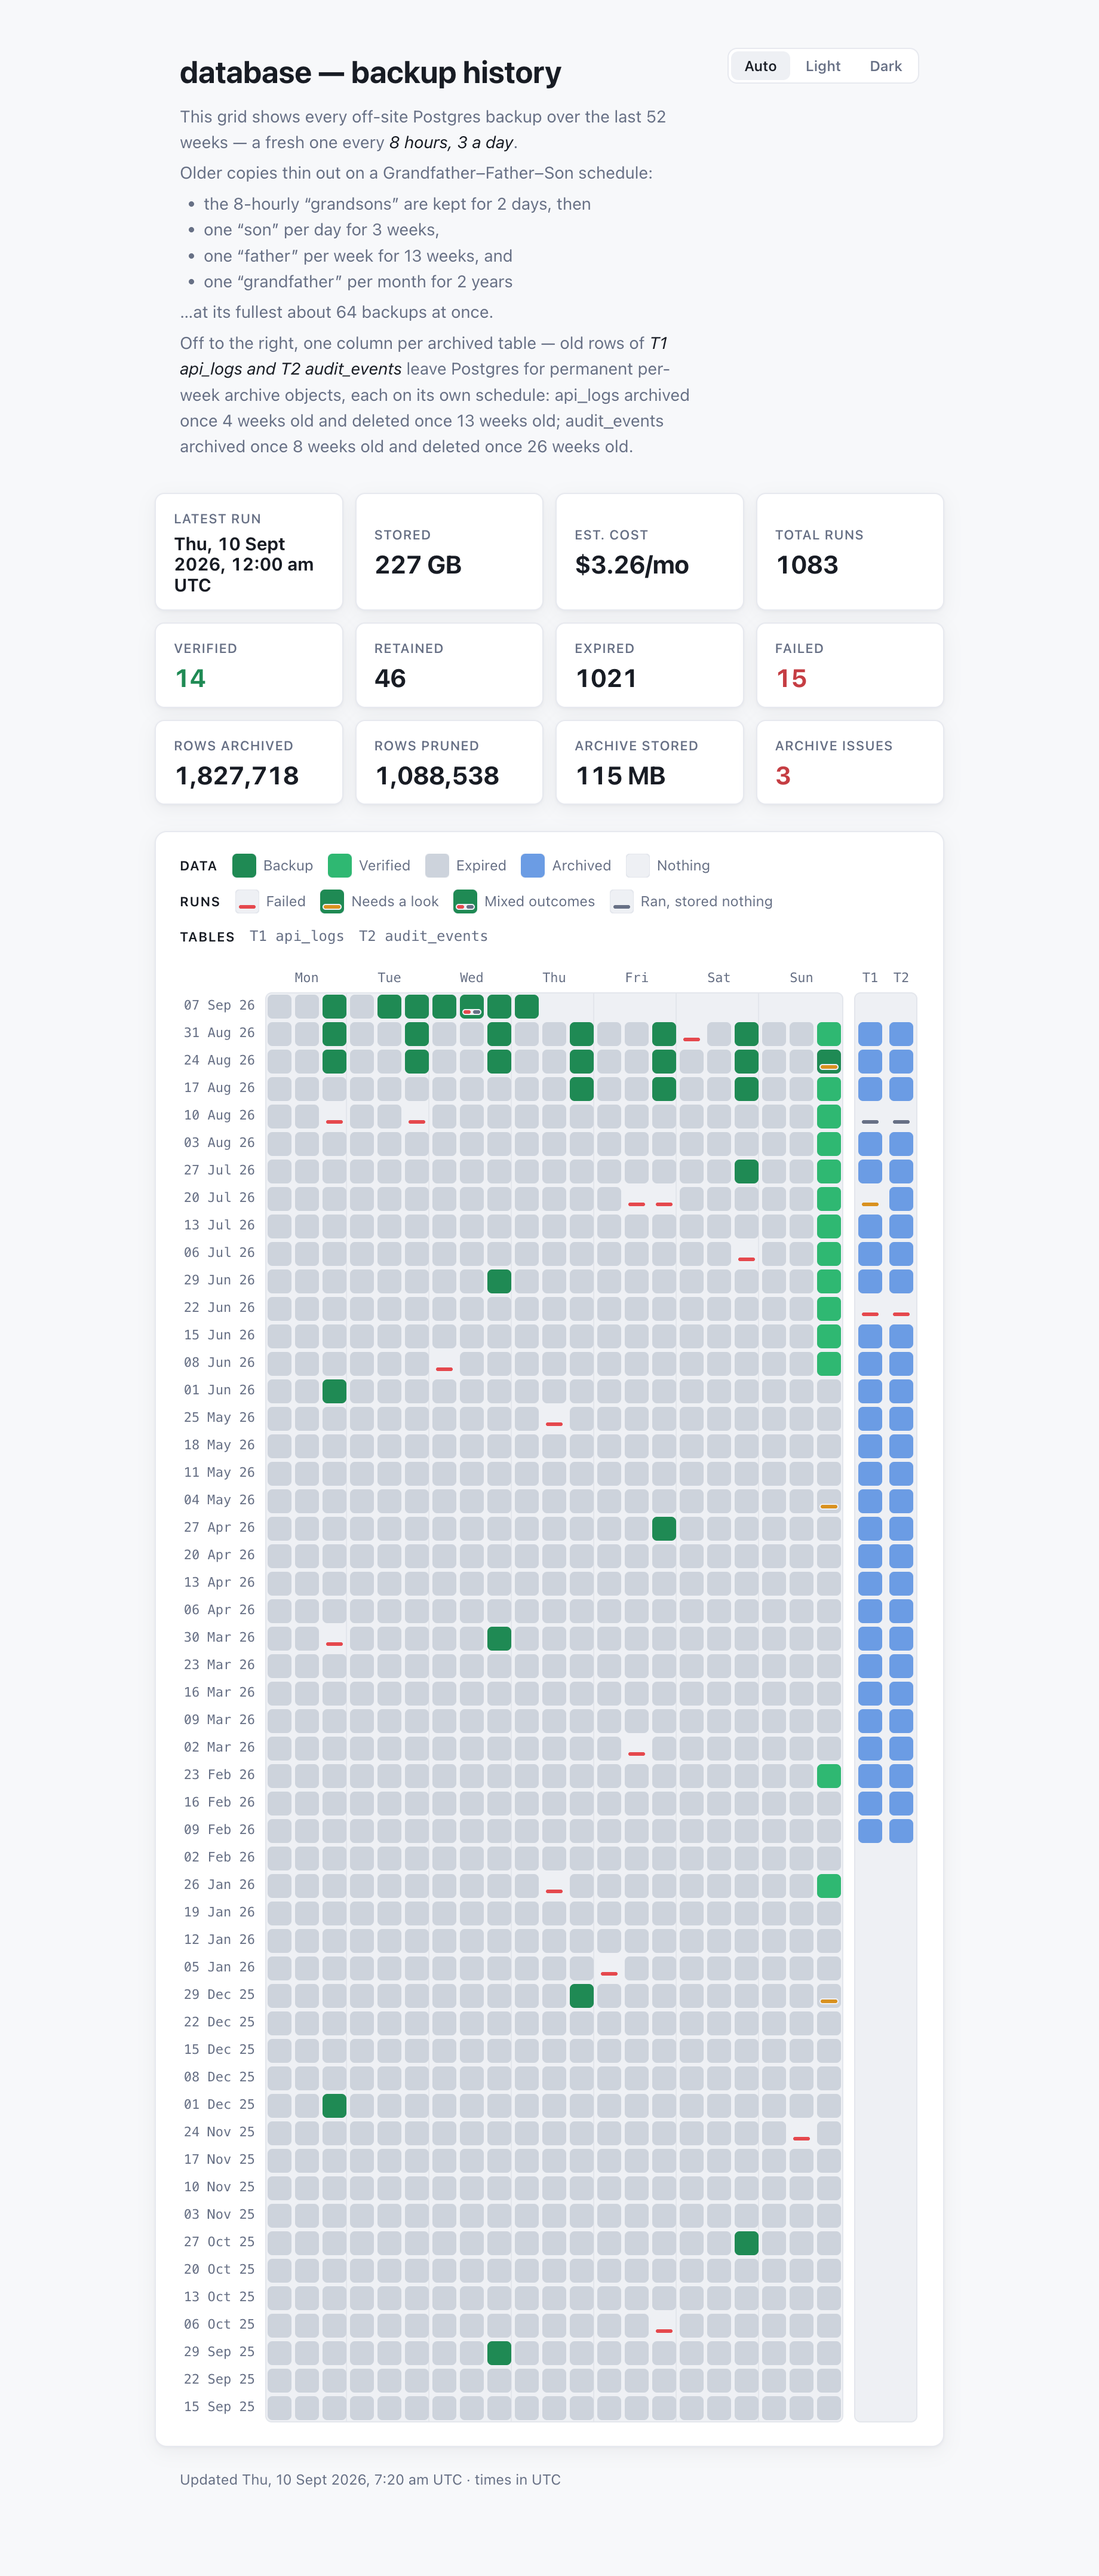
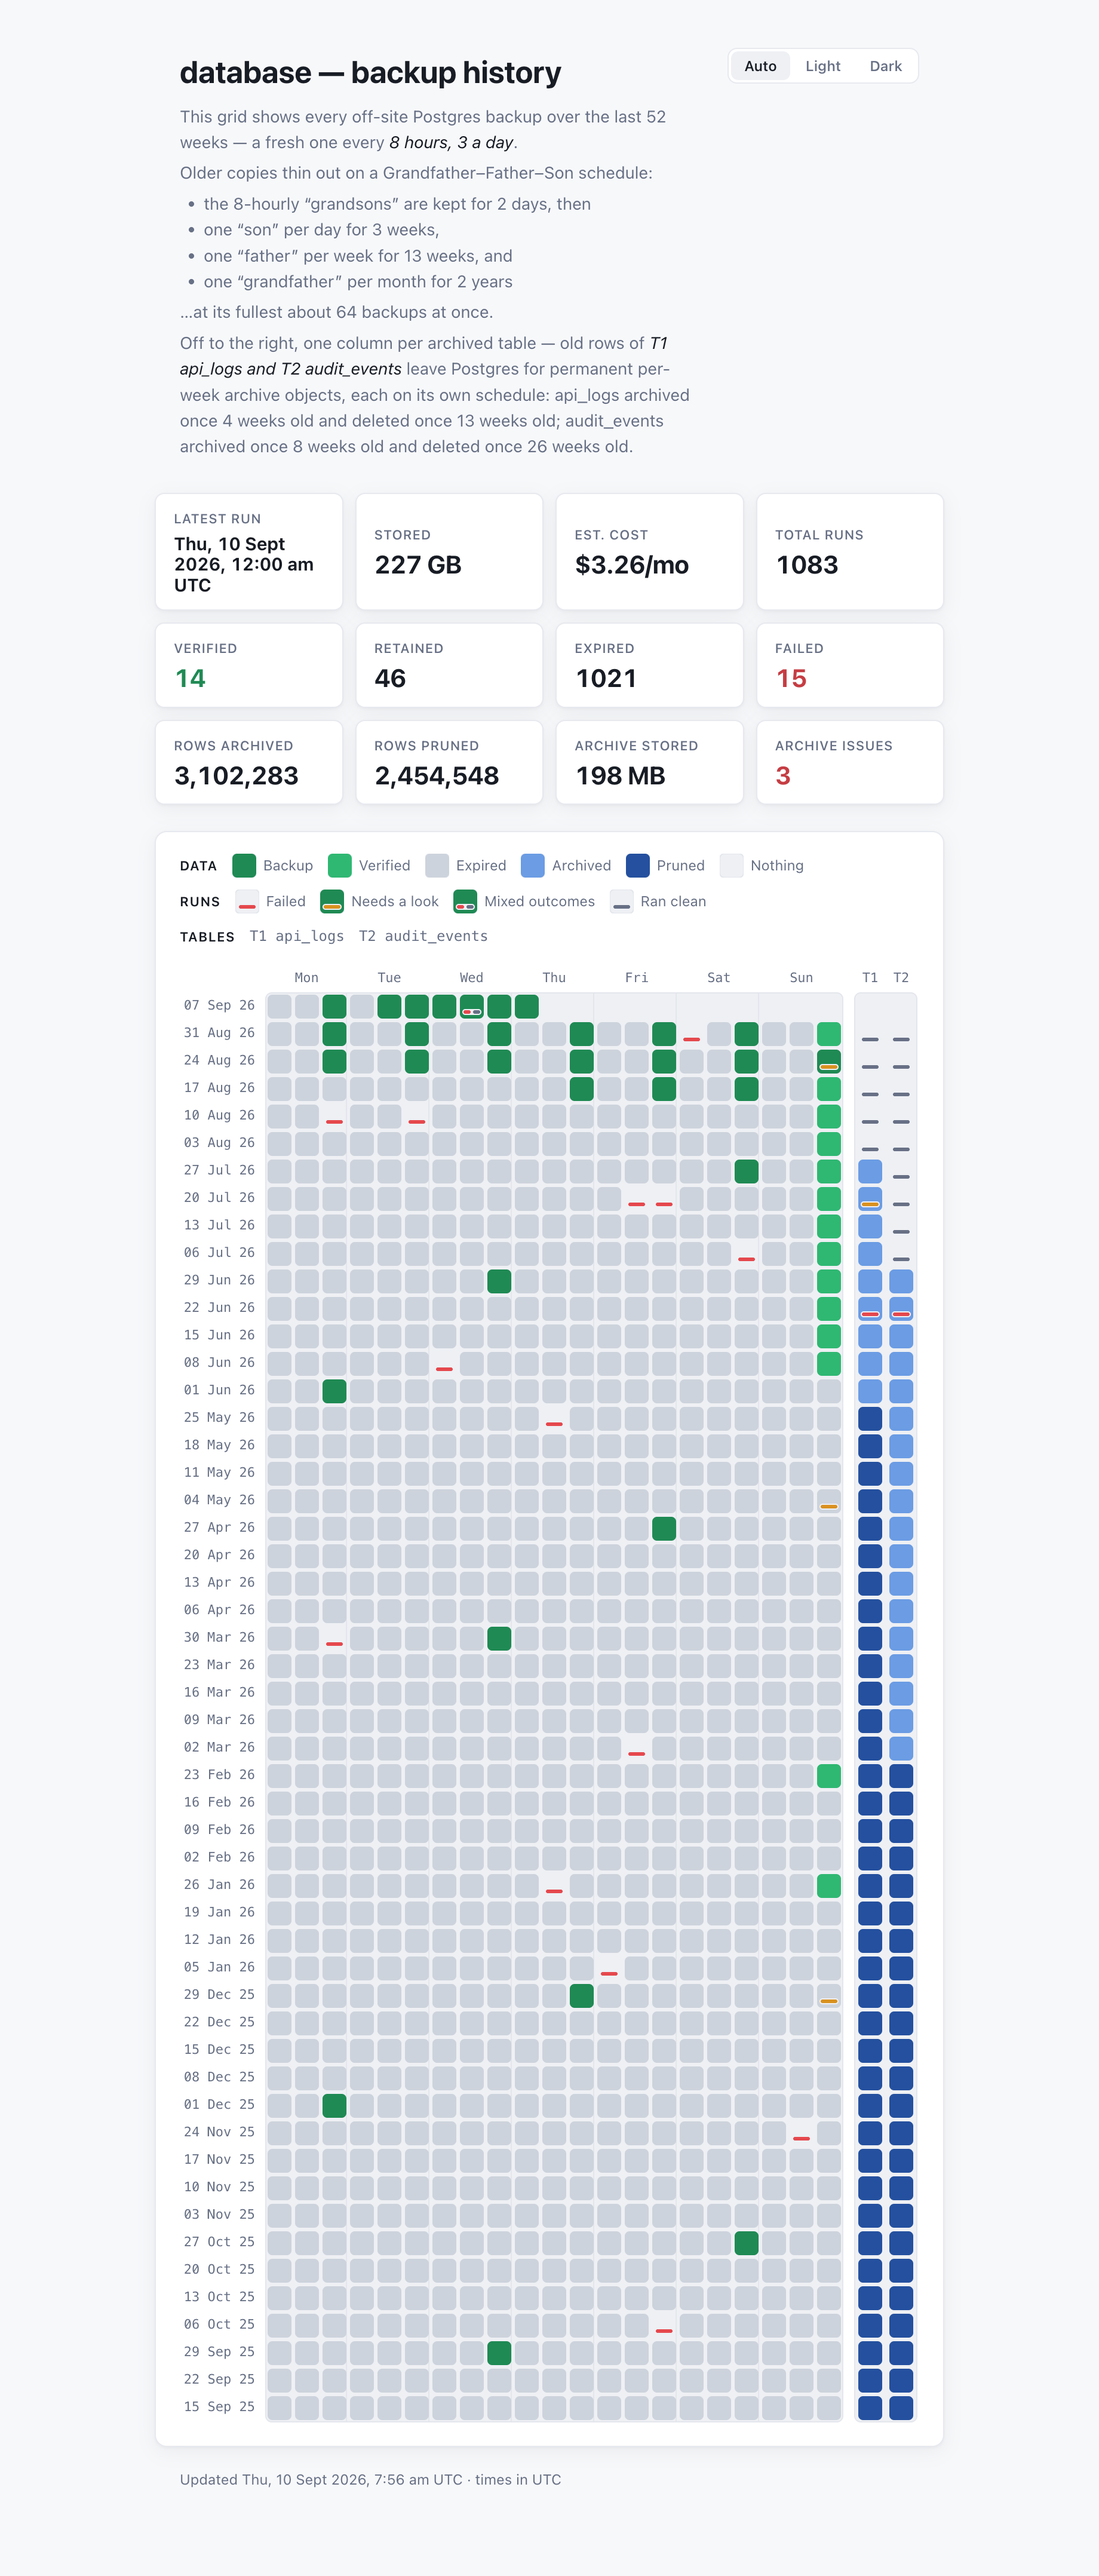
Say what the two channels mean, and show it
README: the archive block's body and mark are about two different weeks, so the
paragraph now says which is which and where each comes from, including the second
read of _index/ and what it publishes. The heatmap paragraph gains the brighter
blue step.

The legend's fourth RUNS entry becomes "Ran clean": under the split subject an
archiver run always stores some other week's rows, so "Ran, stored nothing" was
false of the very cells it labelled.

docs/dashboard.png regenerated from --sample in light — the archive columns now
show the three bands (pruned at the bottom, archived above it, not-yet-archived at
the top) that the run-derived body could never show.

diff --git a/dashboard/heatmap.ts b/dashboard/heatmap.ts
@@ -274,7 +274,10 @@ legendGroup("Runs", [
   ["Failed", null, one("failed")],
   ["Needs a look", "b-ok", one("attention")],
   ["Mixed outcomes", "b-ok", { worst: "failed", second: "ok", codes: 2 }],
-  ["Ran, stored nothing", null, one("ok")],
+  // A clean run with nothing beneath it. Under the two-channel split this no longer means "stored
+  // nothing" — an archiver run stores some OTHER week's rows — it means the run went clean and the
+  // body has nothing of its own to say.
+  ["Ran clean", null, one("ok")],
 ]);
 
 // The Tn → table-name key. Mono, so it reads as the label it is rather than as prose.

diff --git a/README.md b/README.md
@@ -642,10 +642,12 @@ A static, self-contained page visualises **every 8-hourly run over the 1-year wi
 Every cell — backup slot or archive week — says two things in the same two places:
 
 - the **body** (the square) answers *do we have data for this period?* — green = healthy & retained,
-  brighter green = restore-verified, grey = aged out of retention, blue = rows archived, blank = none;
+  brighter green = restore-verified, grey = aged out of retention, blue = rows archived, brighter
+  blue = archived **and** pruned from the database, blank = none;
 - the **mark** (a small bar along the bottom) answers *did the runs in this period go clean?* —
   nothing = clean, **red = failed**, **amber = a restore/hash drill failed or a prune was refused**,
-  two dashes = the runs disagreed, a muted bar on a blank body = it ran and stored nothing.
+  two dashes = the runs disagreed, a muted bar on a blank body = a run went clean but the body has
+  nothing of its own to say.
 
 So a failed backup is a red bar in an empty square (it produced no data), while a backup whose drill
 failed is a green square with an amber bar (the dump is fine; the drill is not). Counts, sizes, times
@@ -676,18 +678,34 @@ bucket + custom domain, e.g. `https://ops.example.com/backups/<name>/index.html`
 **Archive columns.** When the profile has an [`archive:`](#archiving-a-table-out-of-postgres) block, a
 narrow **sibling block appears to the right of the heatmap** — one column per archived table, labelled
 `T1`, `T2`, … (the key from `Tn` to the table name is in the legend, the header sentence and every
-tooltip). It shares the heatmap's row pitch, so each archive run sits on the row of the **week it ran
-in** — beside the weekly backup it follows a few hours later. It uses the same body/mark grammar as
-the backup grid: **blue body** = rows were archived that week, **muted bar on a blank cell** = it ran
-but nothing was eligible (or it was a dry run), **amber bar** = prune refusals or anomalies, a human
-must look, **red bar** = the run failed, **nothing at all** = no archive run that week. A week holding
-several runs shows two dashes when they disagreed, and clicks to a chooser, exactly as backup slots do.
+tooltip). It shares the heatmap's row pitch, and uses the same body/mark grammar as the backup
+grid — but with a twist worth knowing, because **the two channels are about two different weeks**:
+
+| | subject | source |
+|---|---|---|
+| **body** | the rows *dated* that week — archived? pruned? | `_index/` under the archive store prefix |
+| **mark** | the archiver runs that *executed during* that week | `_log/<basename>/archives-*.jsonl` |
+
+The archive that ran on 6 September archived data from *May*, so a clean mark beneath a "pruned" body
+does **not** mean "that run pruned this week's rows". Three things keep them apart: the tooltip splits
+into two halves across a rule, the legend has two headed groups (DATA / RUNS), and a filled square
+never looks like a thin bar. So: **blue body** = those rows are in the archive, **brighter blue** =
+they have also been deleted from the database (a prune is gated on a fingerprint re-check, so a pruned
+week is by construction a verified one), **blank body** = no rows for that week, or none archived yet;
+and **muted bar** = a run happened that week and went clean, **amber bar** = prune refusals or
+anomalies, a human must look, **red bar** = the run failed, **no bar at all** = no archiver run that
+week. A week holding several runs shows two dashes when they disagreed, and clicks to a chooser,
+exactly as backup slots do.
 A third row of stat cards appears alongside — `Rows archived`, `Rows pruned`, `Archive stored`,
 `Archive issues` — and `Stored` / `Est. cost` fold in the archive objects, since they share the bucket
 and the bill. Archive runs do **not** count toward `Total runs` / `Failed`: those cards are about
 backups. It reads `_log/<basename>/archives-YYYY-MM.jsonl` (one record per **table** per run, written
 by `archive-table.ts` since day one) and scrubs it the same way — no `error`, no `runId`, schema
 stripped from the table name; row counts and object sizes are published, like dump sizes already are.
+The bodies come from a second read: `<store-prefix>/<table>/_index/*.jsonl`, scrubbed to
+`{table, week, state, rows}` — fingerprints, digests, part numbers and part roles never leave the
+private bucket. That read **fails soft**: the same bucket-scoped R2 token already reads `_log/`, but if
+`_index/` cannot be listed the page renders with runs only, and says so in the build log.
 A profile with no `archive:` block renders exactly the page it did before.
 
 Set **`dashboard.url`** in the profile to hyperlink the "`<basename> DB backup`" title — in the daily
